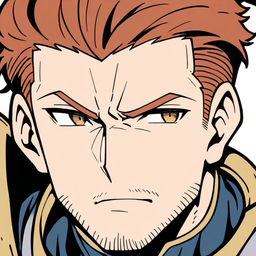
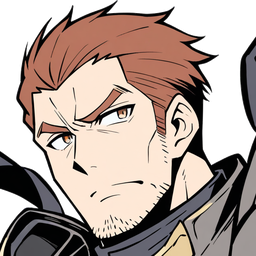
feat: ボルグの顔を胸から上の絵で作り直し、小さい顔を足す

diff --git a/HANDOVER.md b/HANDOVER.md
@@ -6,12 +6,13 @@
 1. 取り込み方式にする（完了）
 2. ボルグを新しい画風で作り直す（完了）
 3. Modal で生成する（完了）
-4. 表示の大きさと顔の構図を決める ← 今ここ
-5. 残りの顔グラ 26 枚を作る
-段階: 実装（6 タスク中 0）
+4. 表示の大きさと顔の構図を決める（完了。最終レビューと依頼者の確認待ち）
+5. 残りの顔グラ 26 枚を作る ← 今ここ
+段階: 設計の相談
 次にやること:
-- 工程 4 を計画 `docs/superpowers/plans/2026-11-23-face-framing.md` に沿って「まとめて」実装する（ブランチ feat/face-framing、未 push。設計書は `docs/superpowers/specs/2026-11-23-face-framing-design.md`、依頼者が承認済み）。Task 6 の Step 4 で依頼者の承認を待つ
-- （以下は設計前の記録）工程 4（表示の大きさと顔の構図）の設計を相談する。決まっていること（大きい枠は頭の全体＋首元、小さい枠は顔のアップ、画像 2 枚など）は `docs/superpowers/specs/2026-11-23-modal-gen-design.md` の「工程 4 で決まっていること」。工程 3 の試しの結果（下の「工程 3 の結果」。`portrait` を外して `upper body` だけにするとボルグの頭が収まりやすい）を材料にする。ボルグの顔は、依頼者が 12 枚の回りの 4 番（シード 2635050234）を選んだ。`illust-asset-forge/local/selected/ally05/face.png` にあり、`characters/ally05/source/` にはまだ取り込んでいない（`cloud install` は `source/` を丸ごと置き換えるが、選び直していない全身絵（`source/fullbody.png`）は持ち越し、表情は持ち越さない。zip 経由の `intake` は `source/` 全体を置き換える。工程 4 の設計のあとに取り込む）
+- 工程 5（残りの顔グラ 26 枚）の設計を相談する。工程 4 の結果（下の「工程 4 の結果」）を材料にする
+- 工程 4 の結果を見て、ボルグのマップの絵を直すかを依頼者が決める（直すなら別の作業として相談）
+- 工程 4 のブランチ feat/face-framing の push と PR（develop 向け）は、依頼者が頼んだとき
 - Drive の置き場を `MyDrive/illust-asset-forge/character-tactics/` にしたい（依頼者。今は `MyDrive/character-tactics/illust-asset-forge/`。ゲームが増えるたびにフォルダが増えて分からなくなるため）。作業が落ち着いてから。直す所は `DRIVE_DIR`（ノートブックの変数とそのテスト `illust-asset-forge/tests/test_notebook.py`）・`illust-asset-forge/README.md`・`illust-asset-forge/CLAUDE.md`・`UPSTREAM.md`。Drive でのフォルダの移動は依頼者
 - 素体に耳を足す（依頼者の判断。`pixel-asset-forge/ISSUES.md`）。今はボルグの芯だけに耳がある
 - ankardo の `new-game` スキルの設計書リンクを、この作業の設計書が main に入ったら `blob/main/…` に直す（依頼者の指示。今はコミット固定）
@@ -25,6 +26,14 @@
 - 実装の進め方は「まとめて」（Claude が全 Task を実装し、最後にレビュー役がブランチ全体を確かめる。superpowers:executing-plans）。依頼者が決めた（2026-11-22）
 - 採用した絵は、Google Drive のコネクター（`download_file_content`）で PNG の条件を残したまま取れる（2026-11-22 確かめた）。取った絵は会話に入り、ファイルとしても保存される
 
+
+工程 4 の結果（2026-11-23。feat/face-framing、未 push）:
+- 顔のテンプレート（`illust-asset-forge/templates/face.yaml`）を `portrait` から `upper body` に替えた（ネガティブからも `upper body` を外した）。`character.yaml` の `face_crop`（`large`・`small` の範囲と `clear_colors`）から、`artgen.export` が大きい顔 256px（`face.png`）と小さい顔 128px（`face-small.png`）を RGBA で書き出し、確認図を `local/check/<id>/` に作る。承認用のページは `python -m artgen.crop_review <id>`。使い方は `illust-asset-forge/README.md`「顔の切り出し」。計画 `docs/superpowers/plans/2026-11-23-face-framing.md`、台帳 `docs/superpowers/ledgers/2026-11-23-face-framing.md`
+- ゲームは `sprites.faceSmall`（任意。仲間・敵・村人）を読み、`faceImageFor` で 40px 以下の枠は小さい顔、無ければ今の 1 枚を使う。`FACE_PX` は変えていない
+- ボルグ（ally05）は 4 番（シード 2635050234）で作り直した。`face_crop`: large `[20, 0, 650, 630]`、small `[50, 100, 550, 600]`（`clear_colors` なし）。依頼者が承認ページで承認（2026-11-23）。ゲームに入れ、ブラウザで 64px（カード）・32px（仲間一覧）・40px（下のバー）に出ることを確かめた。ほかのユニットの顔は今と変わらない
+- 確かめていないこと: 会話・セリフ欄（64px）での見え方（ボルグが話し手になる場面は勝った後の仲間入りだけで、ブラウザでは出していない。描画は同じ `drawFace`）、develop の確認用プレビュー
+- 消してよくなった候補: `illust-asset-forge/local/runs/ally05/face/20261123_105626/` と `local/selected/ally05/`（`source/` に入った。消すのは依頼者）
+- 工程 3 の「Modal で作った絵を `install` して `export` する流れ」は、ボルグで確かめた（`install` → `face_crop` → `export` → `crop_review`）
 工程 3 の結果（2026-11-23。feat/modal-gen、未 push）:
 - Claude がこのサーバーから Modal の T4 で顔・全身の候補を作れるようになった。実行は `illust-asset-forge/` で `python -m artgen.cloud generate --jobs <ジョブの JSON>`（使い方は `illust-asset-forge/README.md` の「10. Modal で作る（量産）」）。候補・採用した絵は `illust-asset-forge/local/`（git に入れない）。採用は `cloud adopt <回りの記録> <番号> [--flip]`、取り込みは `cloud install <id>`。計画 `docs/superpowers/plans/2026-11-23-modal-gen.md` の 6 タスク。台帳は `docs/superpowers/ledgers/2026-11-23-modal-gen.md`
 - Colab との比較（騎士、シード 3034254740）: 条件（プロンプト・シード・版・T4）は同じで、画素は一致しない（82% の画素が 1 以上違い、平均差約 4）。依頼者が見て、見た目は同じとして許した。画素まで同じ絵を作り直す使い方（再現・差分）はできない

diff --git a/README.md b/README.md
@@ -201,11 +201,11 @@ URL に `?debug` を付けると、戦闘中だけ次の操作ができる（攻
 - 物の絵は地面（草）を背景に含めて描く
 - 顔を縮小して描くときだけぼかす（`smoothFor`、`src/render/sprites.ts`）。ほかはドット絵のまま
 - 顔の枠の大きさは `FACE_PX`、役割アイコンの枠は `roleBadgeIn`（どちらも `src/ui/layout.ts`）
-- **顔グラの例外（試しの段階）:** ボルグ（`ally05-face.png`）の顔は、illust-asset-forge（このリポジトリの `illust-asset-forge/`）で生成したイラスト（画風は thick-line-flat）をそのまま使う（ドット絵にしない。256px）。元画像（`illust-asset-forge/characters/ally05/source/face.png`、1024px）の (110,0)〜(750,640) を顔を中心に切り出し、外につながる背景（白と、背後の飾りのクリーム色。肌は含まない）を透明にして 256px に縮めた。顔と服以外の背景は透明にする（依頼者の方針）。ほかの顔をイラストに替えるか、表示の大きさを変えるかは、試した結果を見て決める
+- **顔グラの例外（試しの段階）:** ボルグ（`ally05`）の顔は、illust-asset-forge（このリポジトリの `illust-asset-forge/`）で生成したイラスト（画風は thick-line-flat）をそのまま使う（ドット絵にしない）。顔は 2 枚あり、`ally05-face.png`（大きい顔。頭の全体と首元。256px）は 64px の枠（会話・セリフ欄・カード）に、`ally05-face-small.png`（小さい顔。顔のアップ。128px）は 40px 以下の枠（下のバー・仲間一覧・リザルト）に使う（ユニットの JSON の `sprites.faceSmall`。選ぶのは `faceImageFor`）。作り方: 元画像（`illust-asset-forge/characters/ally05/source/face.png`、1024px。テンプレートは「胸から上」＝ `upper body`）から、`character.yaml` の `face_crop`（`large`・`small` の範囲）で切り出し、外につながる背景（白。必要なら `clear_colors` の色）を透明にして、`python -m artgen.export ally05` が 2 枚を書き出す。範囲は Claude が決め、`python -m artgen.crop_review ally05` の承認用ページで依頼者の承認を受ける。顔と服以外の背景は透明にする（依頼者の方針）。**範囲の辺で服や鎧が切れていると、外から塗りつぶして服の白まで透明になる**ので、`illust-asset-forge/local/check/ally05/` の確認図（透明にした画素を赤で塗った絵）で顔・服・鎧に赤が無いことを必ず見る。ほかの顔をイラストに替えるかは、試した結果を見て決める（見本 4 人は古いテンプレートの絵のまま）
 - ユニットの当たり判定は足元の箱（足元の点から左右6px・下2px・上0px。`src/engine/footprint.ts`）。通れないマスに横と上からはめり込まない。下から近づいたときに頭が上のマスに重なるのは、マスの手前に立っている見え方として残す
 
 **まだ規約に追いついていないもの:** 複数マスを占める物をマップに置く仕組みはまだ無い。
-顔（128px）と役割アイコン（32px）の画像は規約より大きく、縮小して描いている。
+顔（大きい顔 256px・小さい顔 128px）と役割アイコン（32px）の画像は規約より大きく、縮小して描いている。
 
 ## ドット絵の作りかた
 
